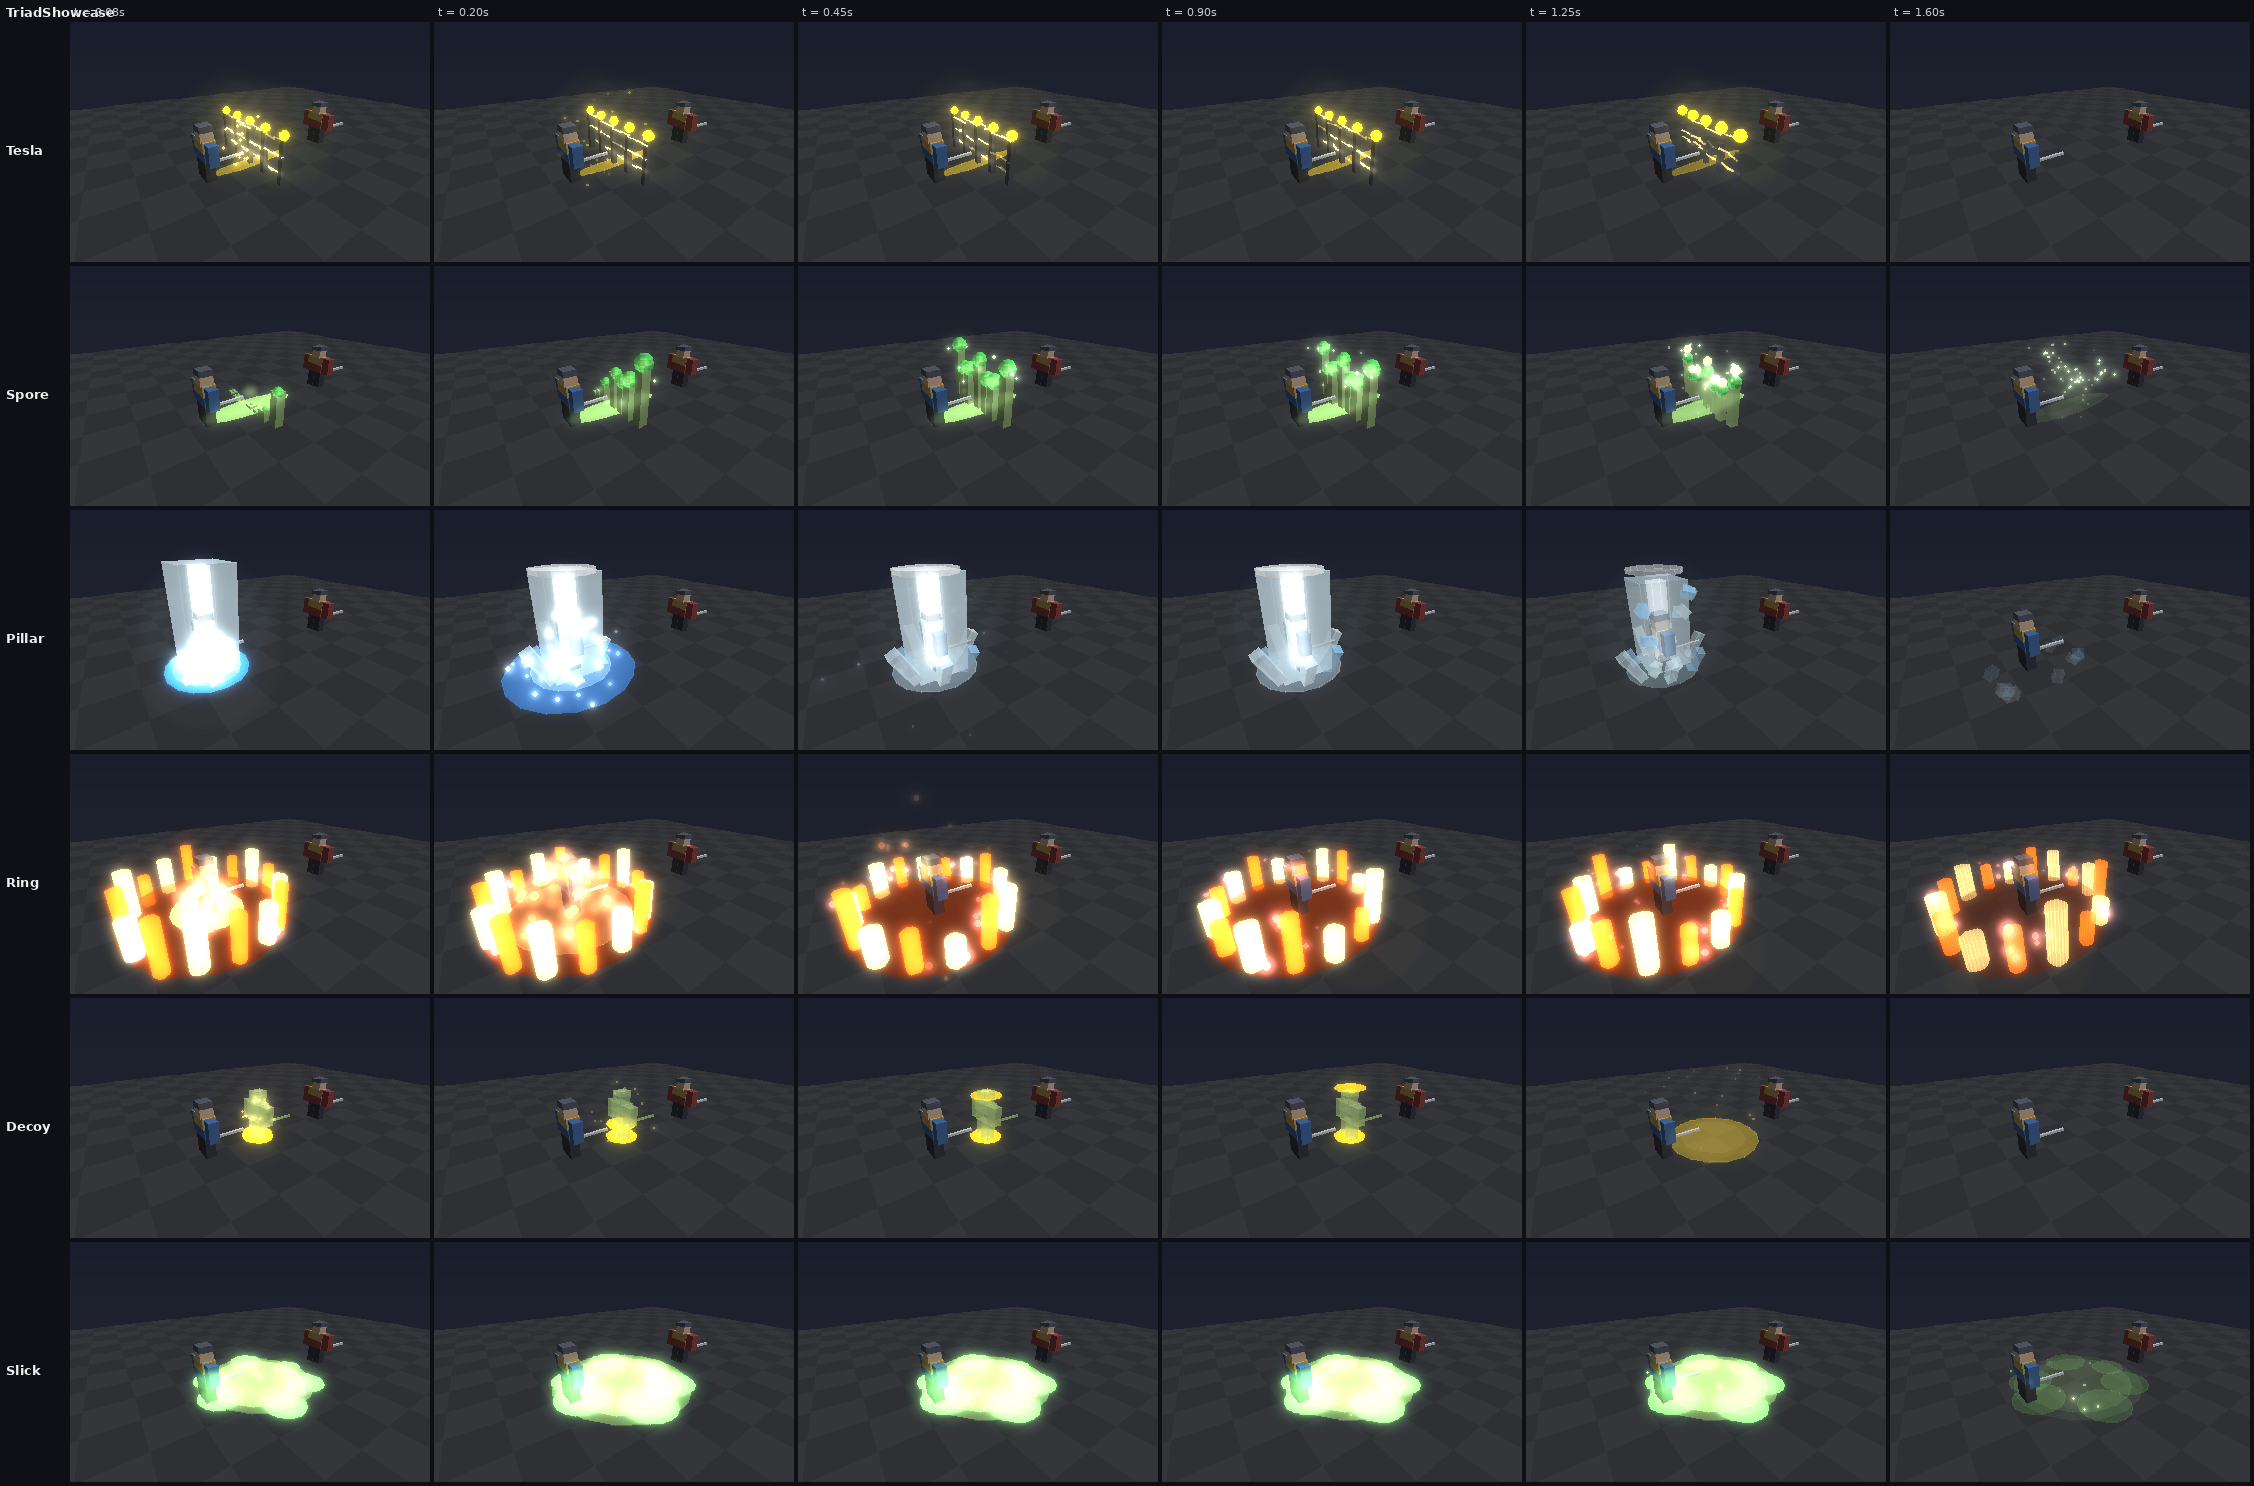
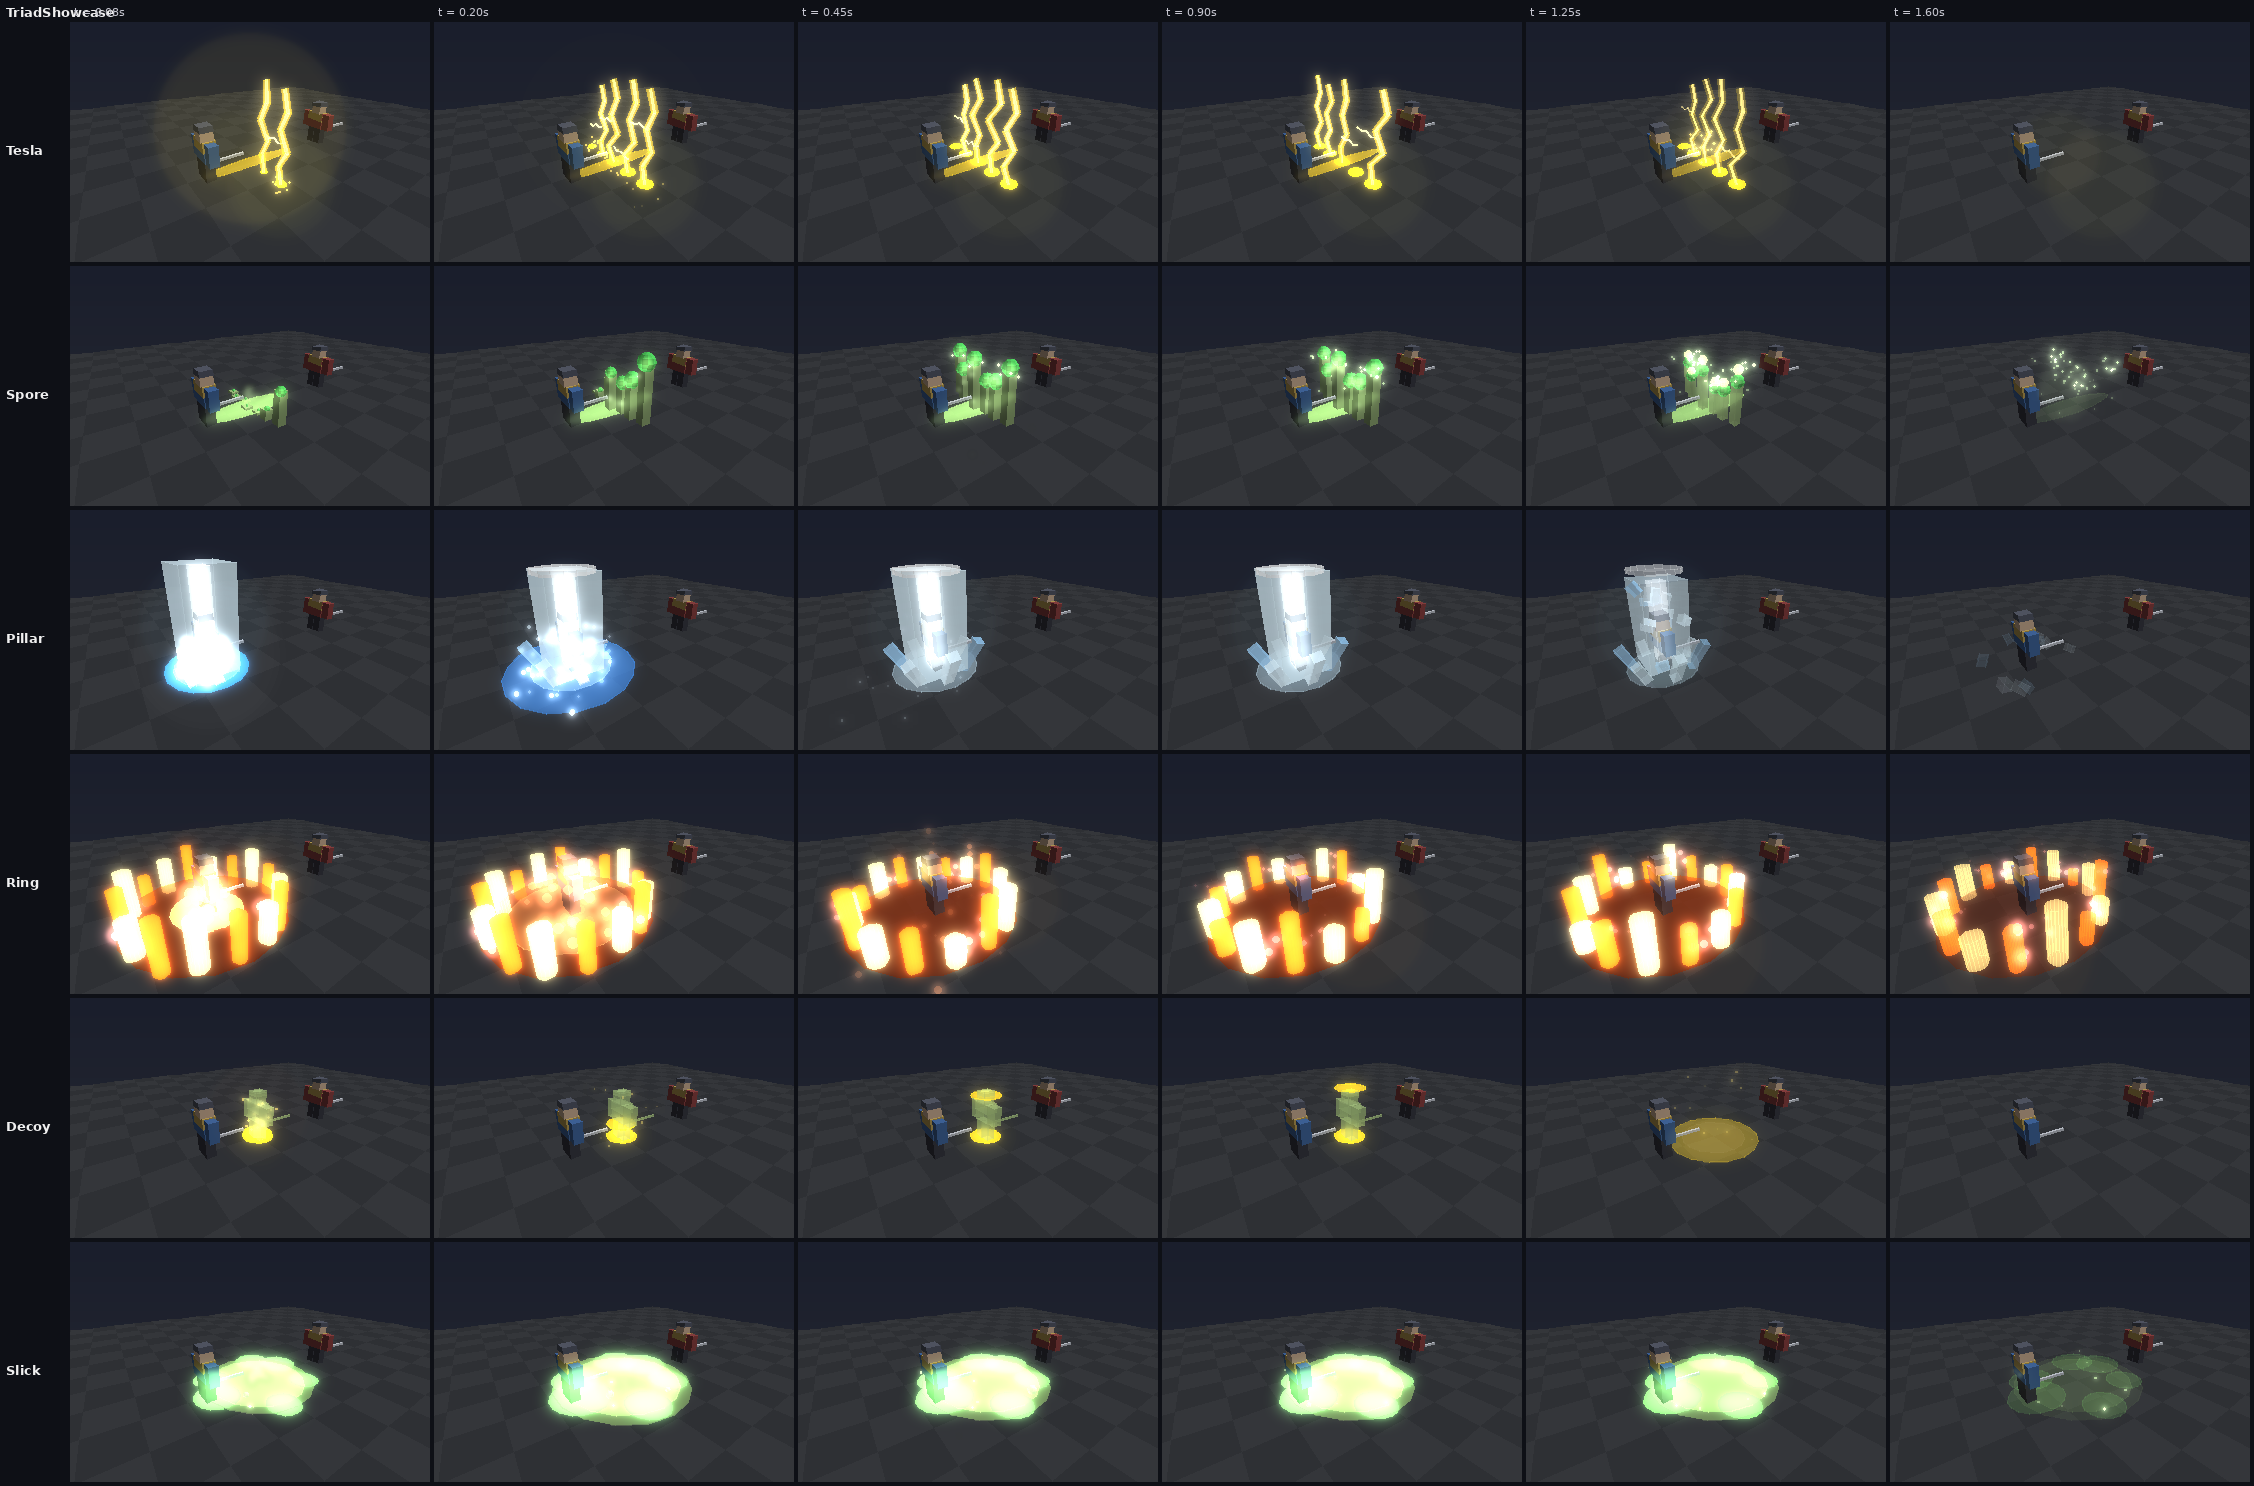
Tesla Fence: a curtain of lightning instead of metal posts
Jagged bolts strike down along the wall, re-drawn every few frames so they
crackle and flicker, with arcs jumping between them and scorch marks where
they land. Segments look along their own line with a horizontal up-vector,
so near-vertical bolts never get a degenerate frame.

Claude-Session: https://claude.ai/code/session_01M9AaiFqQ2dWL5tTu8tuKaL

diff --git a/docs/showcase-kit.md b/docs/showcase-kit.md
@@ -28,7 +28,7 @@ Each element has two R moves: one **barrier** and one **escape**
 | --- | --- |
 | Ring of Fire | A ring of flame circles you for 4s. Foes who cross it burn and get thrown back. |
 | Ice Pillar | An ice column lifts you out of sword reach for 2.5s, then shatters and slows everyone nearby. |
-| Tesla Fence | Posts strung with arcs. It stops bolts, and foes who walk through are stunned. |
+| Tesla Fence | A curtain of lightning bolts striking down, with arcs jumping between them. It stops bolts, and foes who walk through are stunned. |
 | Hologram Decoy | You blink back and leave a flickering copy of yourself. It explodes in lightning when a foe gets close. |
 | Spore Wall | A hedge of toadstools. It stops bolts and poisons foes who walk through. |
 | Acid Slick | A bubbling acid pool. Foes standing in it are slowed and their armor is shredded. |
